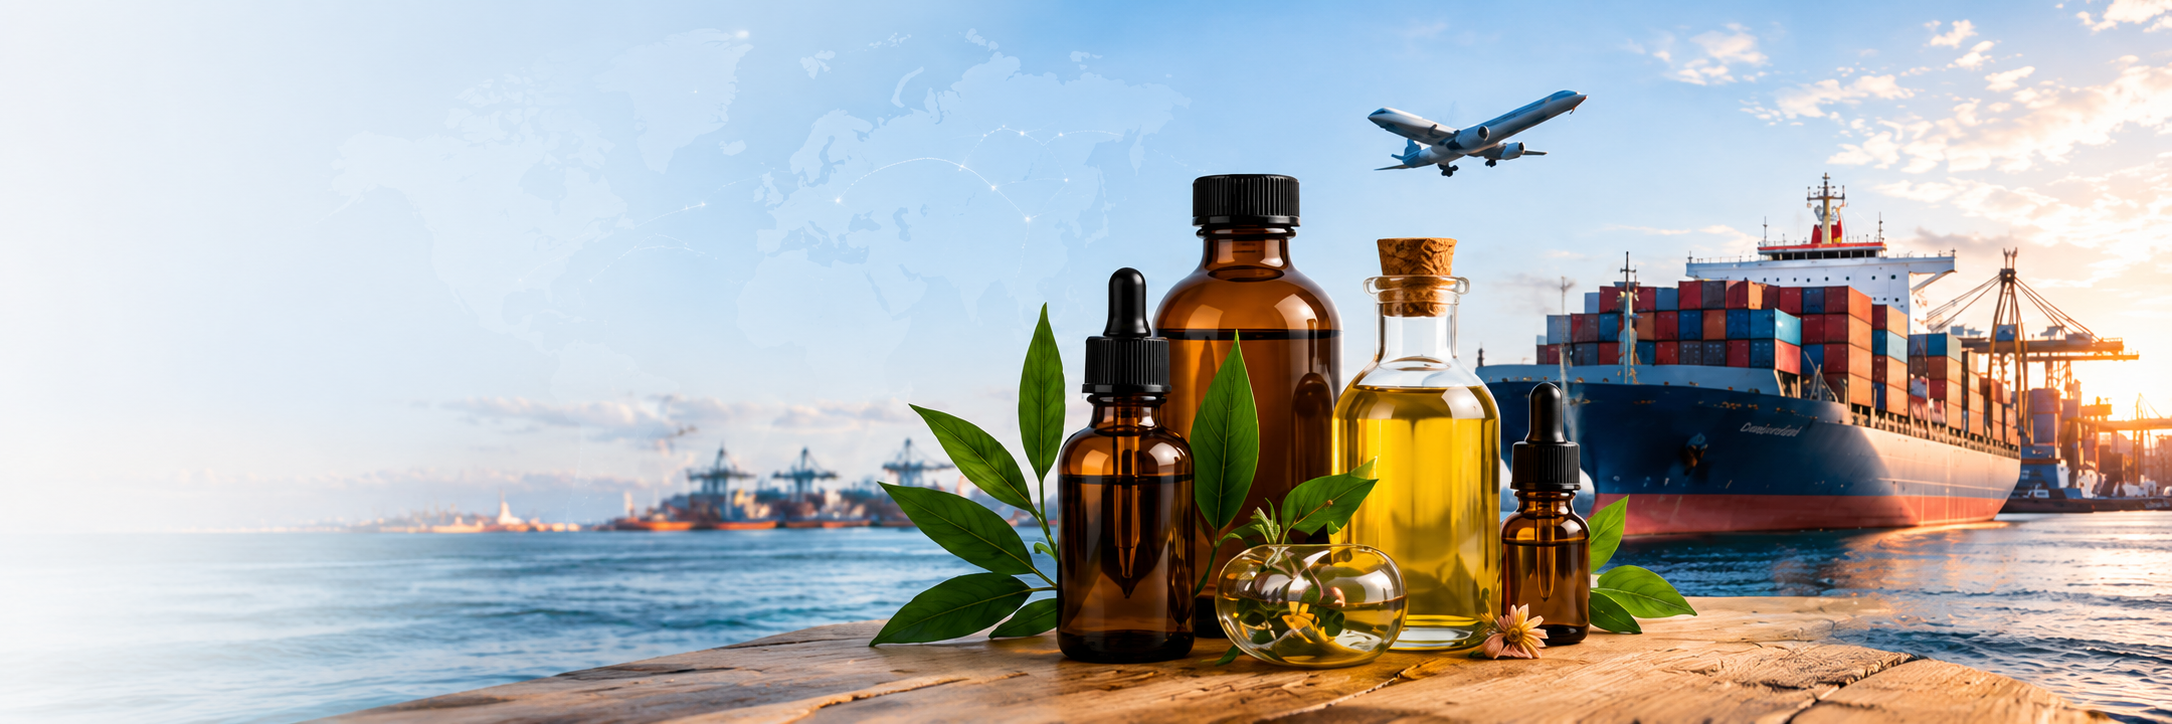
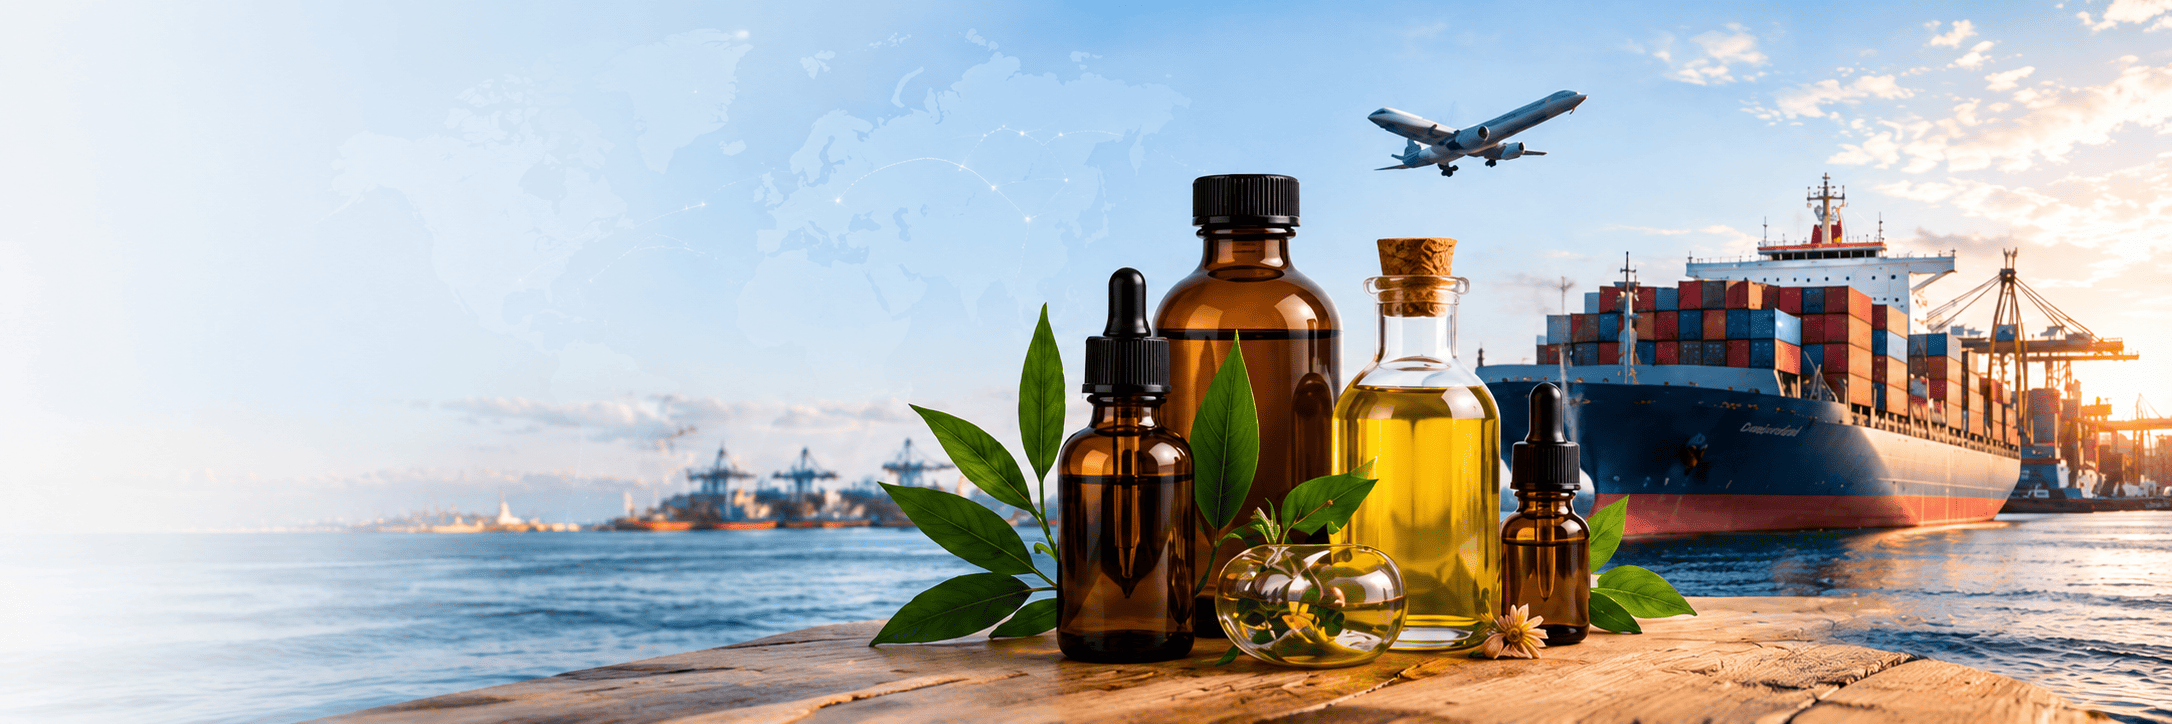
reduced hero image size

diff --git a/src/styles/_services.scss b/src/styles/_services.scss
@@ -128,9 +128,9 @@
     color: $text-medium;
     line-height: 1.45;
 
-    &--highlight {
-      color: #0b548c; // Royal/Teal blue color highlight from attached mock image
+   /*  &--highlight {
+      color: #0b548c;
       font-weight: 600;
-    }
+    } */
   }
 }
